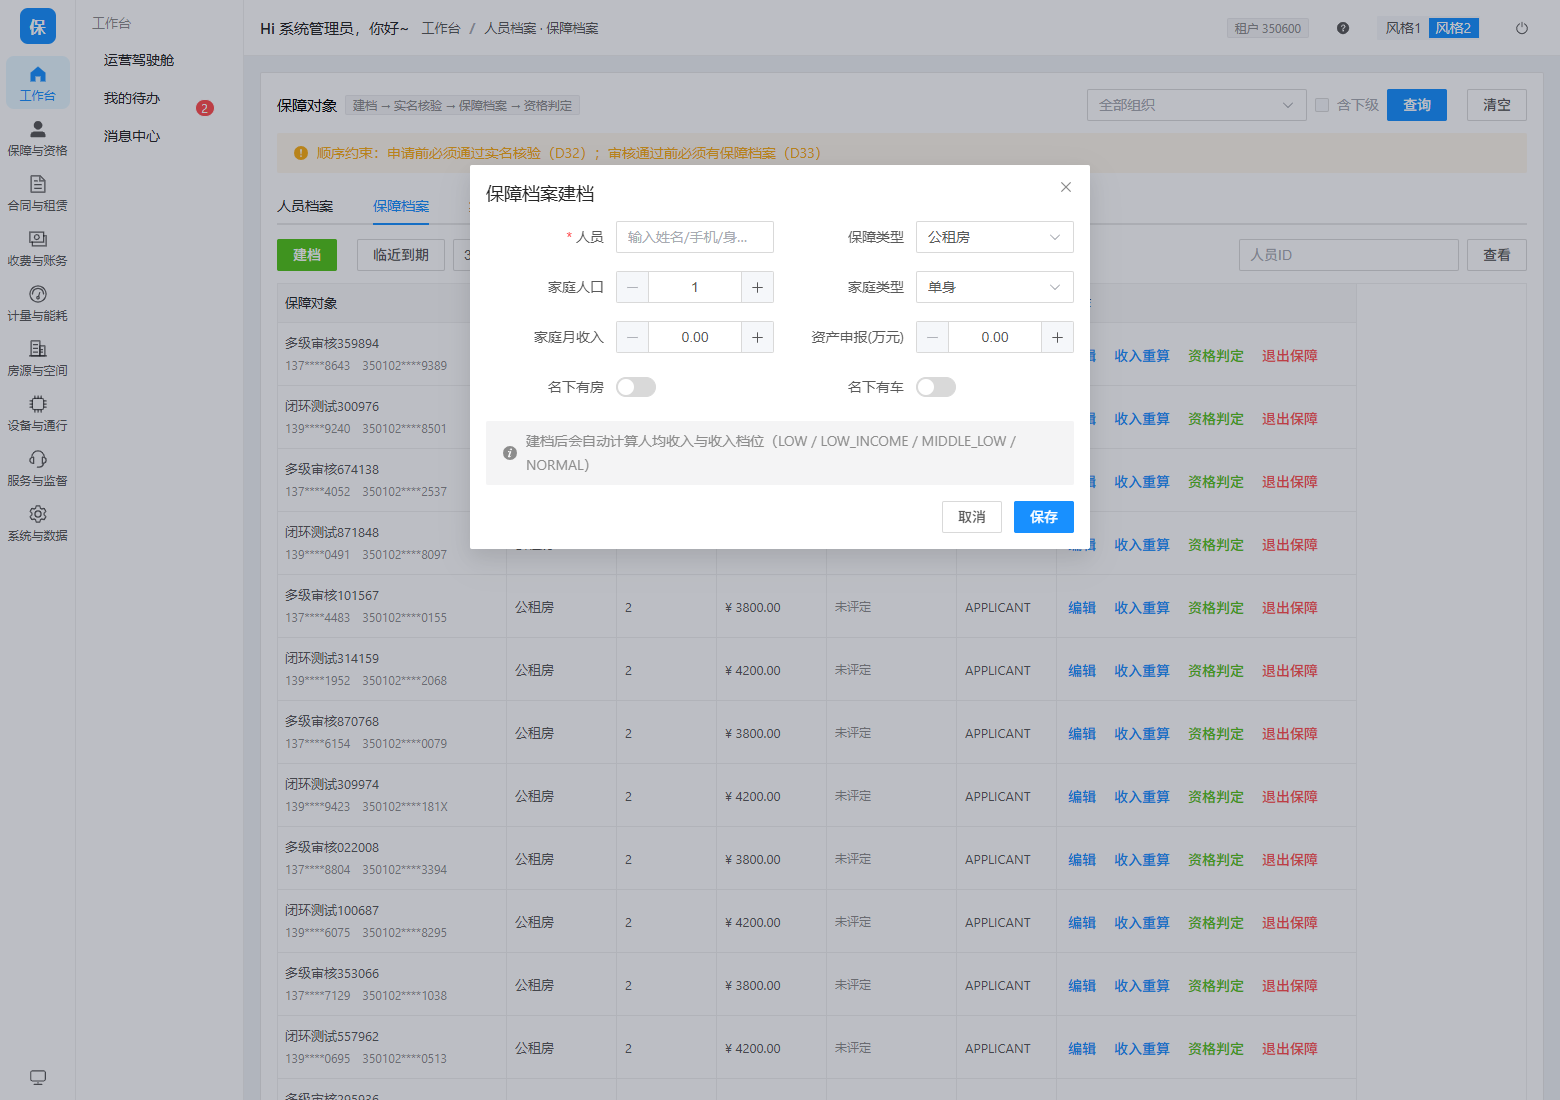
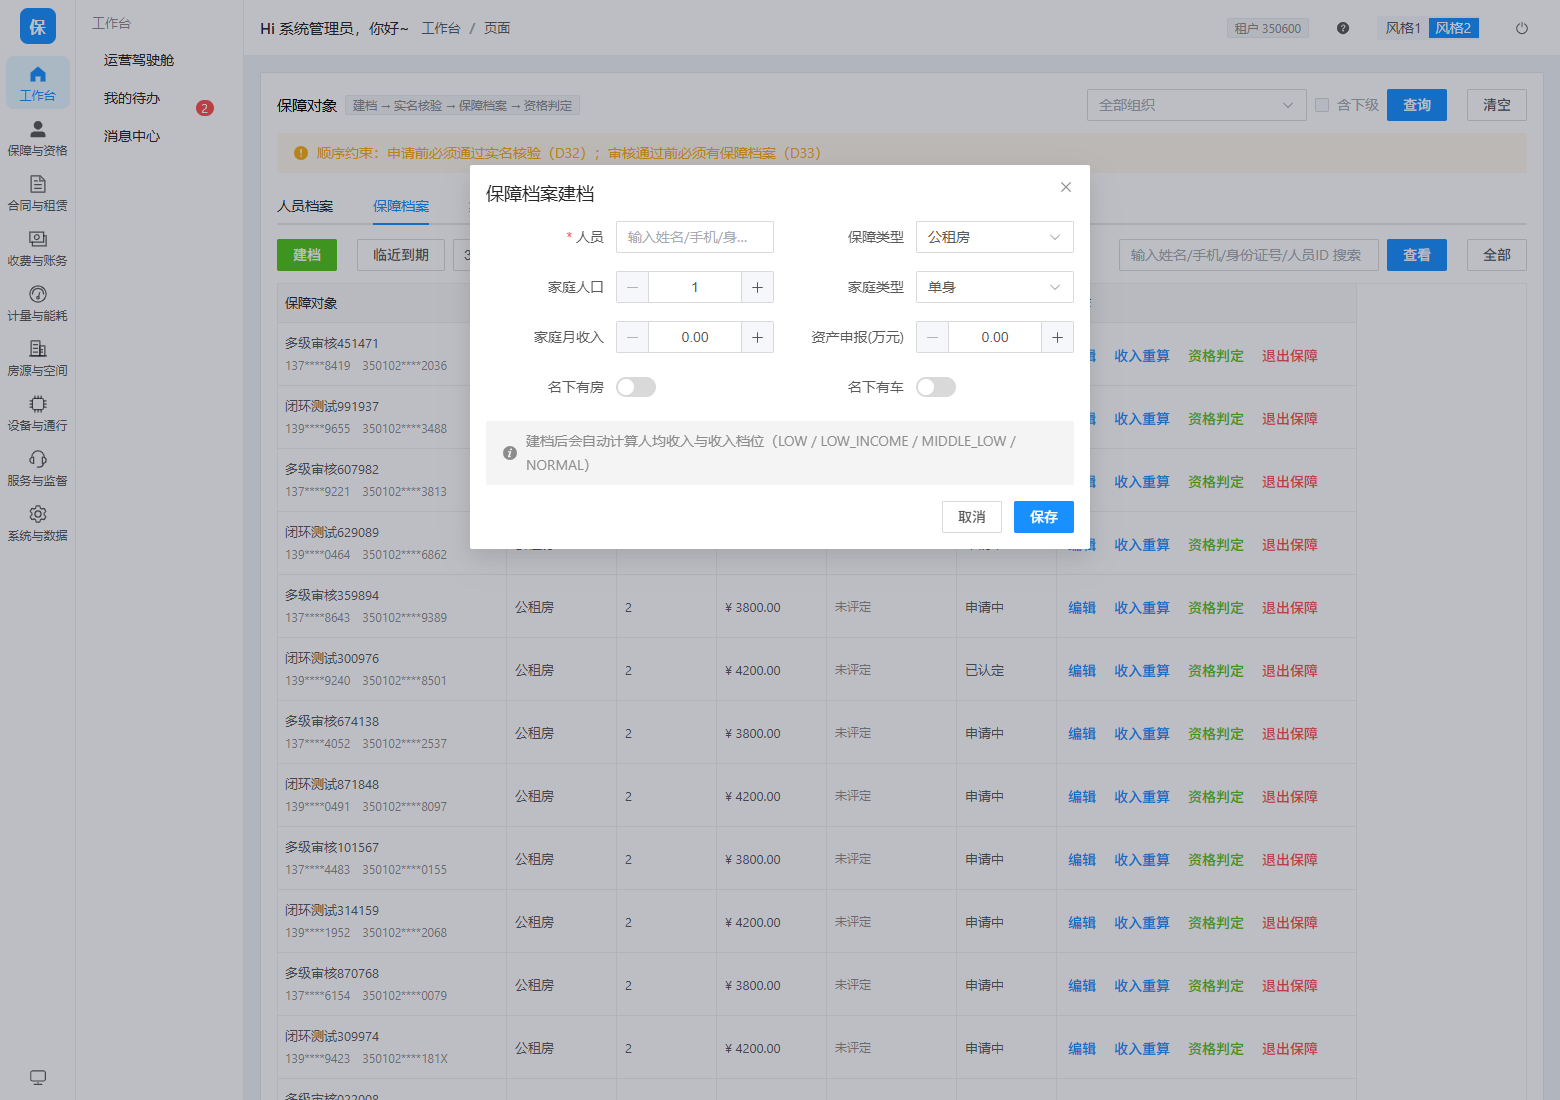
fix(profile): person picker for profile/verify filters, Chinese profile status, clearer empty state; help v2.7

diff --git a/_验证/ui_profile_check.js b/_验证/ui_profile_check.js
@@ -1,0 +1,114 @@
+// 本轮修复的界面验证
+const puppeteer = require('puppeteer-core')
+const path = require('path')
+const EDGE = 'C:\\Program Files (x86)\\Microsoft\\Edge\\Application\\msedge.exe'
+const BASE = 'http://192.168.31.11:8080'
+const sleep = (ms) => new Promise((r) => setTimeout(r, ms))
+
+;(async () => {
+  const browser = await puppeteer.launch({ executablePath: EDGE, headless: 'new', args: ['--no-sandbox'] })
+  const page = await browser.newPage()
+  await page.setViewport({ width: 1560, height: 1100 })
+  await page.setCacheEnabled(false)
+  page.on('pageerror', (e) => console.log('异常:', String(e).slice(0, 160)))
+
+  await page.goto(BASE + '/#/login', { waitUntil: 'networkidle2' })
+  await sleep(900)
+  await page.evaluate(() => {
+    const el = document.querySelectorAll('input')
+    const set = (i, v) => { el[i].focus(); el[i].value = v
+      el[i].dispatchEvent(new Event('input', { bubbles: true }))
+      el[i].dispatchEvent(new Event('change', { bubbles: true })); el[i].blur() }
+    set(0, '350600'); set(1, 'admin'); set(2, 'admin123')
+  })
+  await sleep(400)
+  await page.evaluate(() => {
+    const b = Array.from(document.querySelectorAll('button')).find((x) => /登\s*录/.test(x.innerText || ''))
+    b && b.click()
+  })
+  await page.waitForFunction(() => !!document.querySelector('.rail'), { timeout: 30000 })
+  await sleep(2200)
+
+  // 保障档案页签
+  await page.evaluate(() => { location.hash = '#/persons' })
+  await sleep(3200)
+  await page.evaluate(() => {
+    const t = Array.from(document.querySelectorAll('.el-tabs__item')).find((x) => x.innerText.includes('保障档案'))
+    if (t) t.click()
+  })
+  await sleep(2200)
+  const prof = await page.evaluate(() => {
+    const rows = Array.from(document.querySelectorAll('.el-table__body tr')).slice(0, 3)
+      .map((tr) => tr.innerText.replace(/\s+/g, ' ').slice(0, 120))
+    return { rows, buttons: Array.from(document.querySelectorAll('.el-table__body button'))
+      .map((b) => b.innerText.trim()).slice(0, 6) }
+  })
+  console.log('保障档案行:', JSON.stringify(prof.rows))
+  console.log('行内按钮:', prof.buttons.join(' / '))
+  await page.screenshot({ path: path.join(__dirname, '_shots', 'profile-list.png') })
+
+  // 人员：建档弹窗
+  await page.evaluate(() => { location.hash = '#/persons' })
+  await sleep(3200)
+  await page.evaluate(() => {
+    const tabs = Array.from(document.querySelectorAll('.el-tabs__item'))
+    const t = tabs.find((x) => x.innerText.includes('保障档案') || x.innerText.includes('保障建档'))
+    if (t) t.click()
+  })
+  await sleep(1500)
+  await page.evaluate(() => {
+    const b = Array.from(document.querySelectorAll('button')).find((x) => x.innerText.trim() === '建档')
+    if (b) b.click()
+  })
+  await sleep(1200)
+  const profile = await page.evaluate(() => {
+    const d = Array.from(document.querySelectorAll('.el-dialog')).find((x) => x.offsetParent)
+    if (!d) return null
+    return {
+      labels: Array.from(d.querySelectorAll('.el-form-item__label')).map((x) => x.innerText.trim()).slice(0, 6),
+      hasSelect: d.querySelectorAll('.el-select').length
+    }
+  })
+  console.log('建档弹窗:', JSON.stringify(profile))
+  await page.screenshot({ path: path.join(__dirname, '_shots', 'profile-person-picker.png') })
+  await page.keyboard.press('Escape'); await sleep(600)
+
+  // 轮候入队
+  await page.evaluate(() => { location.hash = '#/waitlist' })
+  await sleep(3000)
+  await page.evaluate(() => {
+    const b = Array.from(document.querySelectorAll('button')).find((x) => x.innerText.includes('入队登记'))
+    if (b) b.click()
+  })
+  await sleep(1200)
+  const enq = await page.evaluate(() => {
+    const d = Array.from(document.querySelectorAll('.el-dialog')).find((x) => x.offsetParent)
+    if (!d) return null
+    return Array.from(d.querySelectorAll('.el-form-item__label')).map((x) => x.innerText.trim())
+  })
+  console.log('入队弹窗:', JSON.stringify(enq))
+  await page.screenshot({ path: path.join(__dirname, '_shots', 'waitlist-enqueue.png') })
+  await page.keyboard.press('Escape'); await sleep(500)
+
+  // 新增房源
+  await page.evaluate(() => { location.hash = '#/houses' })
+  await sleep(3200)
+  await page.evaluate(() => {
+    const b = Array.from(document.querySelectorAll('button')).find((x) => x.innerText.includes('新增房源'))
+    if (b) b.click()
+  })
+  await sleep(1800)
+  const house = await page.evaluate(() => {
+    const d = Array.from(document.querySelectorAll('.el-dialog')).find((x) => x.offsetParent)
+    if (!d) return null
+    return {
+      labels: Array.from(d.querySelectorAll('.el-form-item__label')).map((x) => x.innerText.trim()).slice(0, 5),
+      treeItems: d.querySelectorAll('.el-tree-node').length,
+      selectValues: Array.from(d.querySelectorAll('input')).map((x) => x.value).filter(Boolean).slice(0, 4)
+    }
+  })
+  console.log('新增房源:', JSON.stringify(house))
+  await page.screenshot({ path: path.join(__dirname, '_shots', 'house-create-org.png') })
+
+  await browser.close()
+})()

diff --git a/frontend/src/views/Persons.vue b/frontend/src/views/Persons.vue
@@ -88,10 +88,10 @@
           <el-input v-model.number="expiringDays" placeholder="天数" style="width:90px"
                     data-testid="expiring-days" @keyup.enter="loadExpiring" />
           <div class="spacer" />
-          <el-input v-model="gQuery.personId" placeholder="人员ID" clearable
-                    style="width:220px" data-testid="profile-personid"
-                    @keyup.enter="loadProfiles" />
-          <el-button @click="loadProfileByPerson">查看</el-button>
+          <PersonPicker v-model="profilePersonId" width="260px"
+                        testid="profile-filter-person" />
+          <el-button type="primary" @click="loadProfileByPerson">查看</el-button>
+          <el-button @click="profilePersonId = null; loadProfiles()">全部</el-button>
         </div>
         <el-table :data="profiles" v-loading="loading" border size="small">
           <el-table-column label="保障对象" width="230">
@@ -143,10 +143,10 @@
           <el-button type="success" @click="verifyVisible = true">发起核验</el-button>
           <el-button @click="loadFailStats">失败统计</el-button>
           <div class="spacer" />
-          <el-input v-model="vQuery.personId" placeholder="人员ID" clearable
-                    style="width:220px" data-testid="verify-personid"
-                    @keyup.enter="loadVerifies" />
-          <el-button @click="loadConclusion">查结论</el-button>
+          <PersonPicker v-model="verifyPersonId" width="260px"
+                        testid="verify-filter-person" />
+          <el-button type="primary" @click="loadConclusion">查结论</el-button>
+          <el-button @click="verifyPersonId = null; loadVerifies()">全部</el-button>
         </div>
         <el-table :data="verifies" v-loading="loading" border size="small">
           <el-table-column label="核验对象" width="240">

diff --git a/frontend/src/content/help.js b/frontend/src/content/help.js
@@ -8,7 +8,7 @@
  *
  * 维护约定：改这里等于改内置帮助；对外发布的《用户操作说明》与本文保持同源。
  */
-export const HELP_VERSION = 'v2.6（2026-10-27）'
+export const HELP_VERSION = 'v2.7（2026-10-27）'
 
 export const HELP_SECTIONS = [
   {
@@ -99,7 +99,8 @@ export const HELP_SECTIONS = [
           '发起实名核验：「人员」按姓名搜索选择（不用填人员 ID）。',
           '人脸照片 / 证件照片支持「本地上传」（走附件接口上传并回填可访问地址），也可直接粘贴外部 URL。',
           '核验方式可选：人脸比对 / 身份证 OCR / 政务数据核验。',
-          '演示用：核验页签行内「核验通过」或弹窗「演示：核验通过」，会写入一条人工核验通过记录，并把人员实名状态置为已通过（免等真实核验接口）。'
+          '演示用：核验页签行内「核验通过」或弹窗「演示：核验通过」，会写入一条人工核验通过记录，并把人员实名状态置为已通过（免等真实核验接口）。',
+          '保障档案页签的「查看」支持按姓名/手机/证件号搜索人员，不再需要输入人员ID；点「全部」回到全量列表。'
         ]
       },
       { type: 'h3', text: '3.2 年审复核' },

diff --git a/frontend/src/constants/enums.js b/frontend/src/constants/enums.js
@@ -368,6 +368,14 @@ const TYPE_OVERRIDE = {
   },
   generateType: { MANUAL: '手工出账', AUTO: '自动出账', METER: '抄表出账',
                   SHORT_RENT: '短租结算' },
+  profileStatus: {
+    DRAFT: '草稿',
+    SUBMITTED: '已提交',
+    APPLICANT: '申请中',
+    QUALIFIED: '已认定',
+    IN_RESIDENCE: '在保',
+    EXITED: '已退出'
+  },
   keyStatus: {
     ACTIVE: '正常',
     FROZEN: '已冻结',

diff --git a/10_业务操作流程与验收手册.md b/10_业务操作流程与验收手册.md
@@ -2718,3 +2718,26 @@ Nonce：22 条
 
 - 「核验通过」仅供演示，正式环境应接入真实核验服务后移除或加权限控制。
 - 轮候入队要求人员已有「已通过」的申请单，这是后端既定约束，不是缺陷。
+
+---
+
+## 附录 AL　保障档案查看与状态显示修正
+
+| 问题 | 原因 | 处理 |
+|---|---|---|
+| 保障档案页「查看」只能填人员ID，看到的只有人员ID | 筛选框是纯文本输入，且绑定变量与查询函数用的不是同一个（点了没反应） | 改为人员选择器（姓名/手机/证件号模糊搜索），点「查看」按人过滤、点「全部」回全量；修正变量绑定 |
+| 档案状态显示 APPLICANT 等英文 | 前端缺 profileStatus 枚举 | 补 DRAFT/SUBMITTED/APPLICANT/QUALIFIED/IN_RESIDENCE/EXITED 中文映射 |
+| 实名核验页同样只能填人员ID | 同「查看」 | 改为人员选择器 + 「查结论」「全部」 |
+
+### AL.1 实测（2026-10-27）
+
+`
+保障档案列表：保障对象列显示姓名 + 脱敏手机/证件；状态列显示「已认定 / 申请中」
+查看：选择人员 → 返回该人员档案；无档案时提示「该人员暂无保障档案」
+实名核验：人员选择器 + 查结论；结论弹窗显示通过/未通过与时间
+`
+
+### AL.2 说明
+
+- 列表接口本身一直返回 personName，问题在筛选与状态映射，不在后端。
+- 「查看」单查接口为 GET /guarantee-profiles/person/{personId}。

diff --git a/11_用户操作说明.md b/11_用户操作说明.md
@@ -1,6 +1,6 @@
 # 租赁性保障用房管理系统 · 用户操作说明
 
-> 版本：v2.6（2026-10-27）　|　适用角色：管理员、业务经办、财务、房源管理、服务协同、稽核、租户
+> 版本：v2.7（2026-10-27）　|　适用角色：管理员、业务经办、财务、房源管理、服务协同、稽核、租户
 
 本说明与系统内置「使用帮助」（顶部 ? 图标 / 菜单「系统与数据 → 使用帮助」）内容同源。
 
@@ -85,6 +85,7 @@
 - 人脸照片 / 证件照片支持「本地上传」（走附件接口上传并回填可访问地址），也可直接粘贴外部 URL。
 - 核验方式可选：人脸比对 / 身份证 OCR / 政务数据核验。
 - 演示用：核验页签行内「核验通过」或弹窗「演示：核验通过」，会写入一条人工核验通过记录，并把人员实名状态置为已通过（免等真实核验接口）。
+- 保障档案页签的「查看」支持按姓名/手机/证件号搜索人员，不再需要输入人员ID；点「全部」回到全量列表。
 
 ### 3.2 年审复核
 
